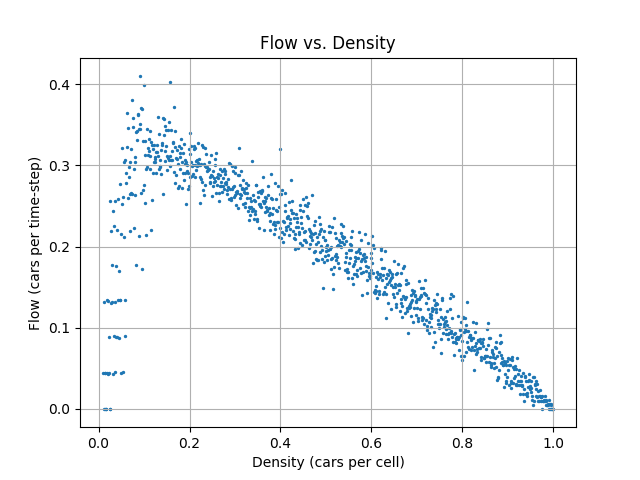
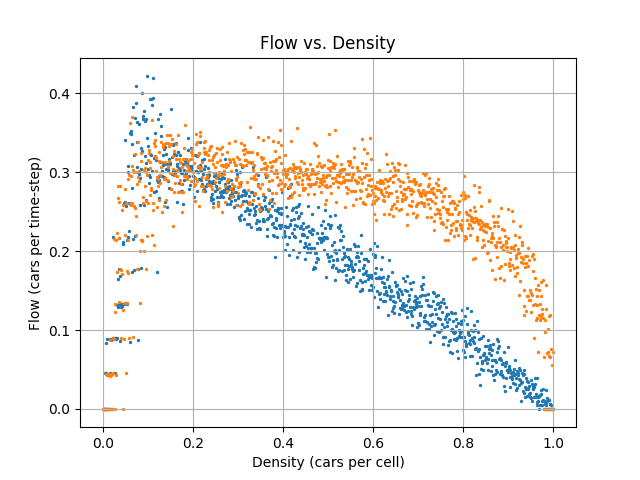
almost perfectly implemented middle adjustment strategy so cars try to place themselves between cars, added simulation and graphing for different strategies

diff --git a/example.py b/example.py
@@ -5,10 +5,10 @@ import numpy as np
 import matplotlib.pyplot as plt
 
 
-def get_flow_array(densities, iterations):
+def get_flow_array(densities, iterations, strategy):
     avg_flow_arr = []
     for density in densities:
-        sim = TrafficSimulation(100,density,5,.5, verbose=False)
+        sim = TrafficSimulation(100, density, 5, 0.5, verbose=False, strategy=strategy)
         flow_sum = 0
         for i in range(iterations):
             sim.step()
@@ -18,20 +18,21 @@ def get_flow_array(densities, iterations):
         avg_flow_arr.append(avg_flow)
     return avg_flow_arr
 
-dens = np.arange(0.01,1.0,.001)
+dens = np.arange(0.00,1.0,.001)
 its = 200
-
-flows = get_flow_array(dens, its)
-dens = np.array(dens)
-flows = np.array(flows)
-# df = pd.DataFrame({'density':dens, 'flow':flows})
-# ax = sns.lmplot(x='density', y='flow', fit_reg=True, data=df)
-plt.scatter(dens,flows,s=2)
-# z = np.polyfit(dens, flows, 3)
-# f = np.poly1d(z)
-# plt.plot(dens, f(dens))
-plt.xlabel('Density (cars per cell)')
-plt.ylabel('Flow (cars per time-step)')
-plt.title('Flow vs. Density')
-plt.grid(True)
-plt.savefig("test.png")
+strategies = ['rules','middle']
+for strategy in strategies:
+    flows = get_flow_array(dens, its, strategy)
+    dens = np.array(dens)
+    flows = np.array(flows)
+    # df = pd.DataFrame({'density':dens, 'flow':flows})
+    # ax = sns.lmplot(x='density', y='flow', fit_reg=True, data=df)
+    plt.scatter(dens,flows,s=2)
+    # z = np.polyfit(dens, flows, 3)
+    # f = np.poly1d(z)
+    # plt.plot(dens, f(dens))
+    plt.xlabel('Density (cars per cell)')
+    plt.ylabel('Flow (cars per time-step)')
+    plt.title('Flow vs. Density')
+    plt.grid(True)
+    plt.savefig("test.png")

diff --git a/TrafficSimulation.py b/TrafficSimulation.py
@@ -2,11 +2,12 @@ import random
 from copy import deepcopy
 
 class TrafficSimulation():
-    def __init__(self, road_length, traffic_density, v_max, p, start_state = [], verbose = True):
+    def __init__(self, road_length, traffic_density, v_max, p, start_state = [], verbose = True, strategy = 'rules'):
         self.road_length = road_length
         self.traffic_density = traffic_density
         self.v_max = v_max
         self.p = p
+        self.strategy = strategy
         self.verbose = verbose
         self.throughput = 0
         if not start_state:
@@ -25,6 +26,8 @@ class TrafficSimulation():
         length = self.road_length
         speeds = deepcopy(self.state)
 
+        if self.strategy == 'middle': prev_j = 0
+
         for index, speed in enumerate(self.state):
             if speed < 0:
                 continue
@@ -40,7 +43,13 @@ class TrafficSimulation():
 
             # slow down due to cars
             if j <= speed:
-                speeds[index] = j - 1
+                if self.strategy == 'rules':
+                    speeds[index] = j - 1
+                else:
+                    total_j = prev_j + j
+                    middle = round(total_j/2)
+                    speeds[index] = j - middle
+                    prev_j = j
 
             # random slow down
             if speeds[index] > 0 and random.random() < self.p:
@@ -65,5 +74,5 @@ class TrafficSimulation():
         flow = self.throughput / self.road_length
         return flow
 
-    def display(state):
+    def display(self, state):
         print(''.join('.' if x == -1 else str(x) for x in state))
